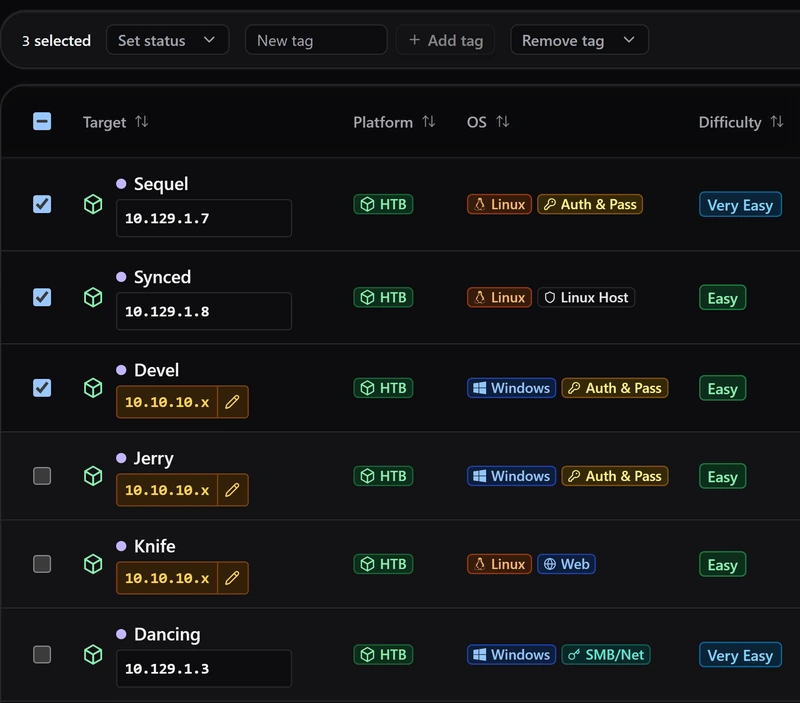
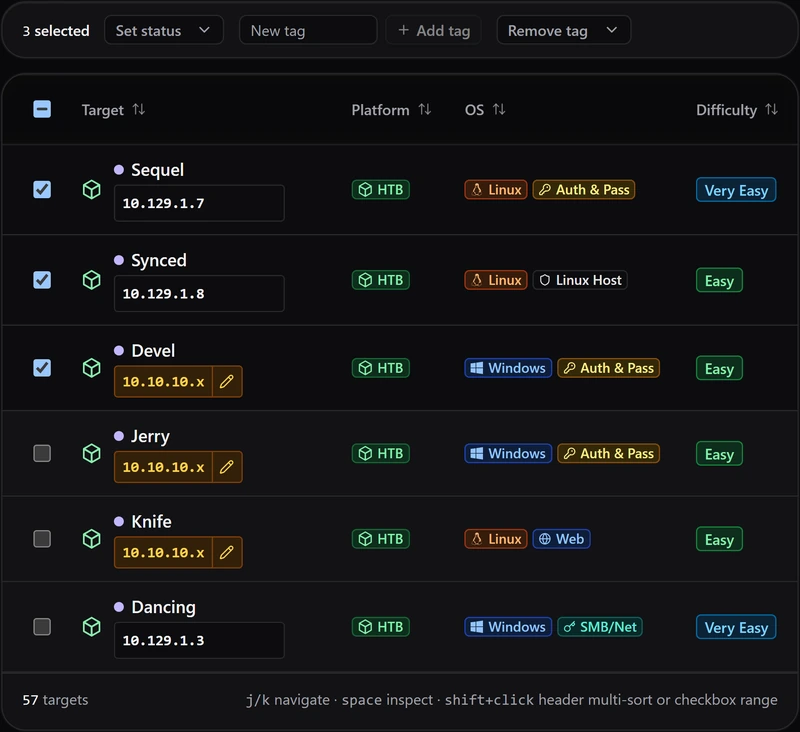
fix(site): recrop graph and table shots, align nmap row, scope privacy copy to the app
- graph: capture the pivot chain plus the one subnet hub it hangs off (other machines, hubs and
  the operator rig hidden at capture time), so no node, label or edge is cut; 3.1:1 crop
- table: lay the bulk bar and table card out at 644px with the right-hand columns hidden, so the
  toolbar and the card's right and bottom borders are inside the crop; orphaned table-1881 removed
- capture script deletes stale widths of a recaptured shot
- nmap row: text column aligns to the top of the code block
- privacy: "The tracker app has no account, sends no telemetry..." (the site uses Cloudflare Web Analytics)
- drop the duplicate light-theme .fact-net rule

Claude-Session: https://claude.ai/code/session_01YH6H74T2HfFgAT5bbL9ywR

diff --git a/scripts/site/css/40-landing.css b/scripts/site/css/40-landing.css
@@ -38,7 +38,7 @@
 .feat-txt h3{margin:0 0 var(--s1);font-size:1.125rem;font-weight:600}
 .feat-txt p{max-width:60ch;margin:0;color:var(--muted)}
 .feat-row{display:grid;gap:var(--s6);margin-top:var(--s6);align-items:start}
-.feat-nmap{display:grid;gap:var(--s6);margin-top:var(--s6);align-items:center}
+.feat-nmap{display:grid;gap:var(--s6);margin-top:var(--s6);align-items:start}
 .feat-nmap .feat-txt{margin-top:0}
 .code{min-width:0;margin:0;padding:var(--s4);overflow-x:auto;font-size:.8125rem;line-height:1.7;color:var(--text-2);border-radius:var(--r-lg);background:linear-gradient(to right,var(--code) 30%,transparent) 0 0/32px 100% no-repeat local,linear-gradient(to left,var(--code) 30%,transparent) 100% 0/32px 100% no-repeat local,linear-gradient(to right,rgb(0 0 0/.55),transparent) 0 0/14px 100% no-repeat scroll,linear-gradient(to left,rgb(0 0 0/.55),transparent) 100% 0/14px 100% no-repeat scroll,var(--code);box-shadow:0 0 0 1px rgb(255 255 255/.1)}
 @media(max-width:479px){.code{padding:12px;font-size:.75rem}}

diff --git a/scripts/site/css/60-light.css b/scripts/site/css/60-light.css
@@ -19,5 +19,4 @@ color-scheme:light;
 /* Screenshots are dark images: give the frames a visible edge on a light page. */
 :root[data-theme="light"] .frame{background:#18181b;box-shadow:0 0 0 1px rgb(9 9 11/.28),0 24px 48px -24px rgb(9 9 11/.35)}
 :root[data-theme="light"] .hero-media{--e1:0 0 0 1px rgb(9 9 11/.28),0 24px 48px -24px rgb(9 9 11/.38);--e2:0 0 0 1px var(--hair),inset 0 1px 0 rgb(255 255 255/.05),0 4px 8px -2px rgb(9 9 11/.25),0 20px 36px -14px rgb(9 9 11/.5)}
-:root[data-theme="light"] .facts-panel .fact-net{border-left-color:var(--accent);background:var(--elev)}
 :root[data-theme="light"] #exam .pills li{background:var(--card)}

diff --git a/scripts/templates/landing.html b/scripts/templates/landing.html
@@ -171,7 +171,7 @@ Nmap scan report for 10.129.14.21
     <div class="wrap privacy-grid">
       <div class="privacy-copy">
         <h2 id="privacy-title">Your notes stay in your browser</h2>
-        <p>The app has no account, sends no telemetry and has no server holding your data.</p>
+        <p>The tracker app has no account, sends no telemetry and has no server holding your data.</p>
         <p>The source is public on <a href="{{REPO_HREF}}" rel="noopener">GitHub</a>, so you can check what it stores and what it sends.</p>
       </div>
       <dl class="facts-panel">
